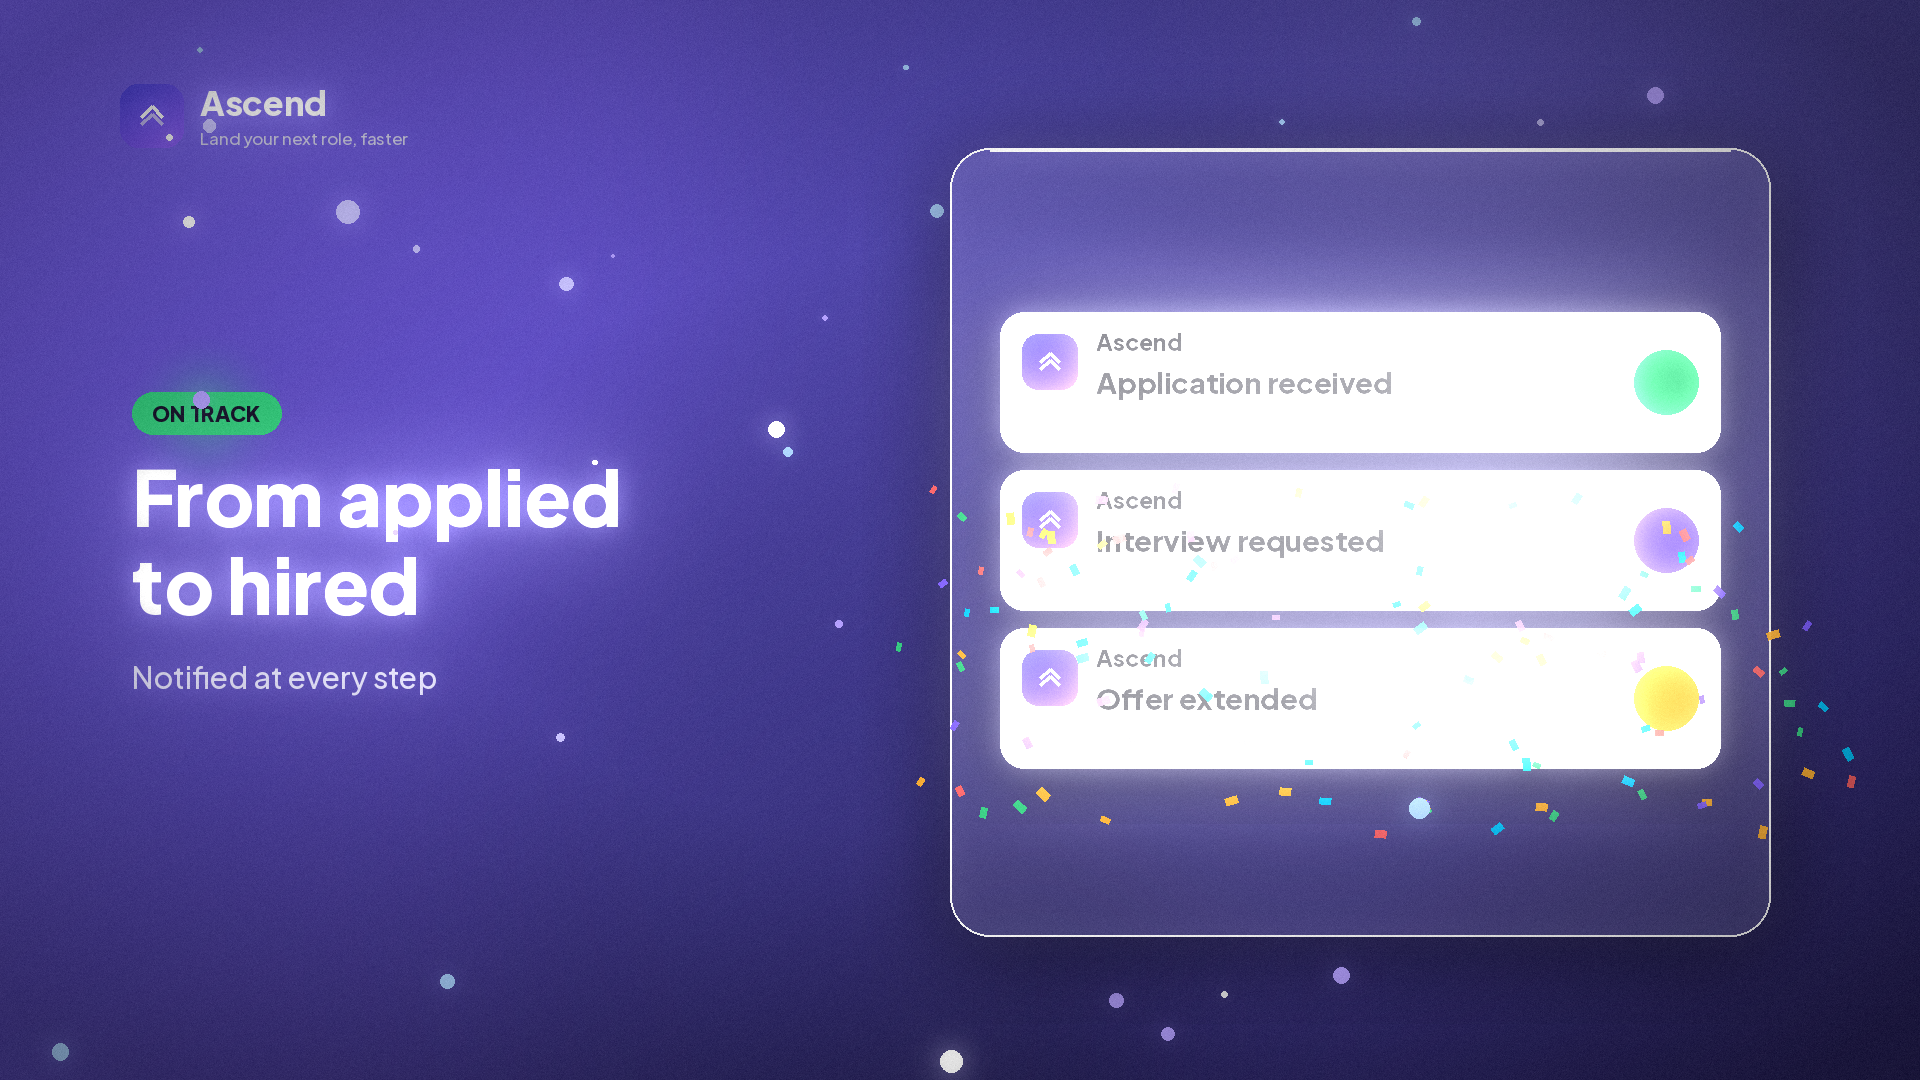
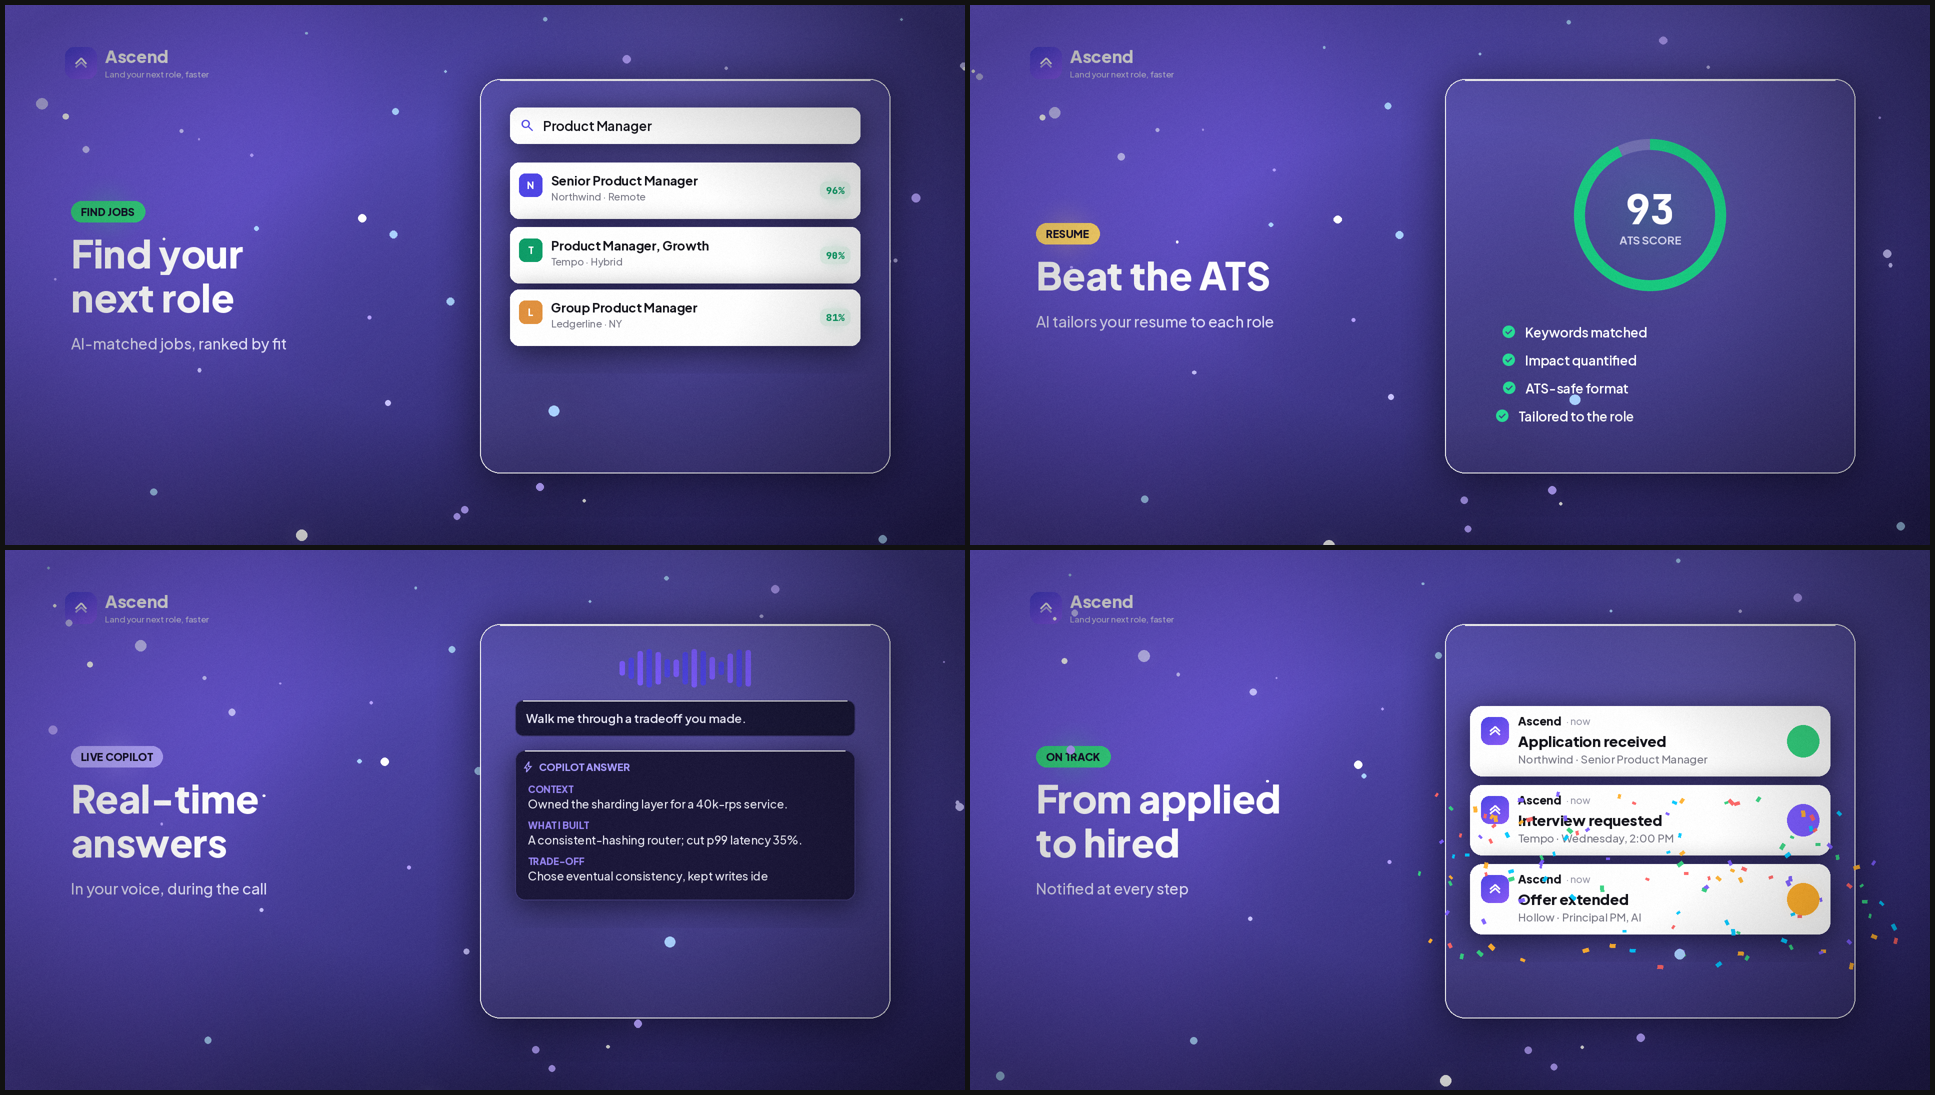
Fix video visibility: remove global bloom, dim glows
- Drop the bright-pass bloom in grade() (it washed out text/cards)
- Globally dim localized halos (0.55x) so accents glow without flooding
- Darken frosted panel interior (white blend 0.10 -> 0.05) for card contrast
- Keep vignette + subtle grain

Claude-Session: https://claude.ai/code/session_016iTa5Z3smo53P389BkYmrZ

diff --git a/feature-video/anim.py b/feature-video/anim.py
@@ -41,7 +41,7 @@ def halo(img,cx,cy,r,color,a=1.0):
     tile=Image.new("RGBA",(s,s),(0,0,0,0))
     col=_rgb(color) if not isinstance(color,tuple) else color
     solid=Image.new("RGBA",(s,s),col+(0,));
-    alpha=spr.point(lambda v:int(v*clamp(a)))
+    alpha=spr.point(lambda v:int(v*clamp(a)*0.55))   # globally dimmed so glows don't wash out
     solid.putalpha(alpha); img.paste(solid,(int(cx-r),int(cy-r)),solid)
 
 def logo_tile(size,r):
@@ -112,16 +112,11 @@ VIGN=np.clip(1-(_d-0.55)*0.5,0.62,1.0).astype(np.float32)[...,None]
 _GRAIN=[ (np.random.default_rng(s).standard_normal((H,W,1)).astype(np.float32))*3.0 for s in range(12) ]
 _gi=[0]
 def grade(img):
+    # No global bloom (it washes out text). Subtle vignette + film grain only;
+    # all "glow" comes from localized halos behind elements on the dark areas.
     a=np.asarray(img).astype(np.float32)
-    # bloom: bright-pass -> blur -> add (all at reduced res for speed)
-    lum=[email redacted]([0.299,0.587,0.114],np.float32)
-    m=np.clip((lum-158)/97,0,1)[...,None]
-    src=Image.fromarray((a*m).astype(np.uint8))
-    b1=np.asarray(src.resize((W//2,H//2)).filter(ImageFilter.GaussianBlur(6)).resize((W,H))).astype(np.float32)
-    b2=np.asarray(src.resize((W//4,H//4)).filter(ImageFilter.GaussianBlur(12)).resize((W,H))).astype(np.float32)
-    a=a+b1*0.30+b2*0.50
     a=a*VIGN
-    _gi[0]=(_gi[0]+1)%len(_GRAIN); a=a+_GRAIN[_gi[0]]   # cheap grain (precomputed)
+    _gi[0]=(_gi[0]+1)%len(_GRAIN); a=a+_GRAIN[_gi[0]]
     return np.clip(a,0,255).astype(np.uint8)
 
 # ---------- right-side stage panel (frosted glass container) ----------
@@ -134,7 +129,7 @@ def _frosted(t):
         if len(_PANELC)>50:_PANELC.clear()
         x0,y0,x1,y1=PANEL
         crop=bg_base(k/4).crop((x0,y0,x1,y1)).filter(ImageFilter.GaussianBlur(30))
-        crop=Image.blend(crop,Image.new("RGB",crop.size,(255,255,255)),0.10)
+        crop=Image.blend(crop,Image.new("RGB",crop.size,(255,255,255)),0.05)
         _PANELC[k]=crop
     return _PANELC[k]
 def draw_stage_panel(img,a,t):